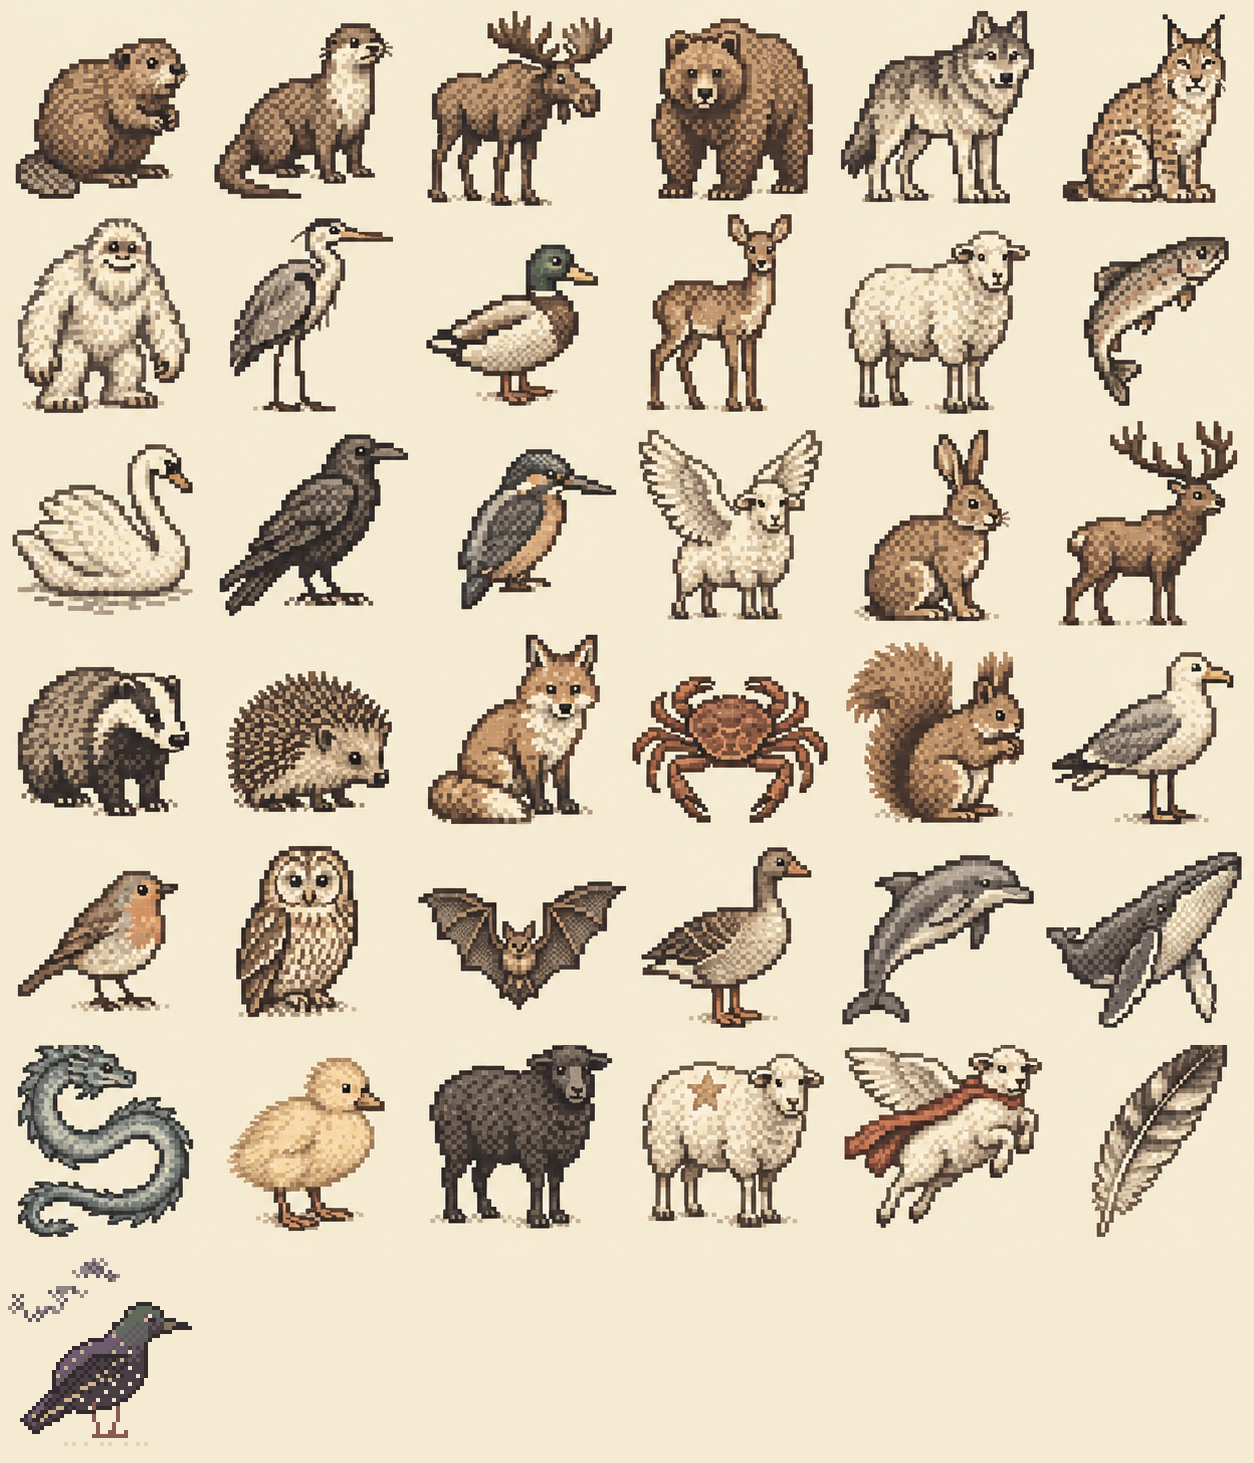
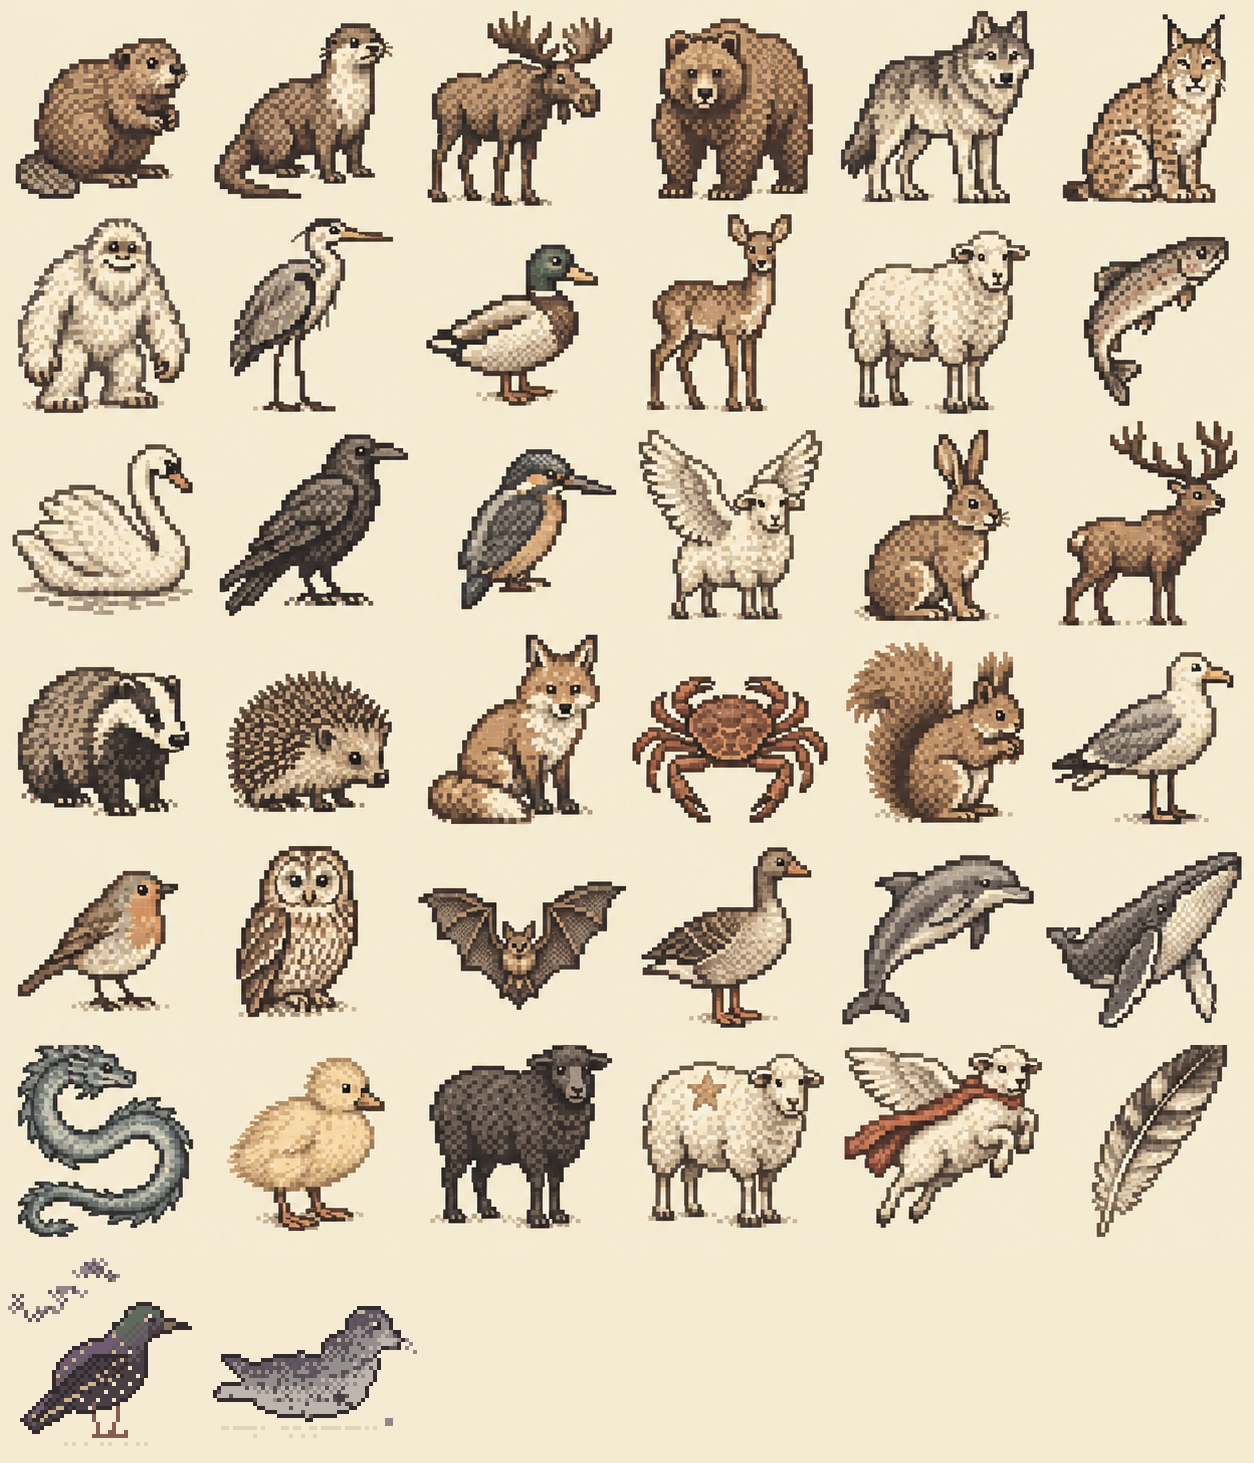
A seal in the sketchbook, a clear-day switch on the river, and notes for agents - The harbour seal gets a page in the wildlife sketchbook, drawn in code next to the starlings   (tools/drawings/row-seven.py draws every hand-made cell of the atlas's seventh row) - On the river, paddle under the real s

Changed region(s): [[0.1555, 0.892, 0.3421, 0.9843]]

diff --git a/src/island/river.ts b/src/island/river.ts
@@ -22,6 +22,8 @@ const FADE = 0.35; // seconds for the iris to close (and again to open)
 const SETTLE = 700;
 /** The river you picked last time. */
 const PICK = 'wingedsheep:river:pick';
+/** Whether you'd rather paddle on a clear day, whatever the hour and the weather outside. */
+const CALM = 'wingedsheep:river:calm';
 /** The rare ones you've seen, on any river. */
 const SPOTTED = 'wingedsheep:river:spotted';
 
@@ -150,6 +152,16 @@ export class River implements RoomInput {
   private cardAt = 0; // when the card on screen came up (ms)
   private $: Record<string, HTMLElement> = {};
   private grade = new THREE.Vector3();
+  /** The island's light as the river gets it (see run). */
+  private lit = { sun: new THREE.DirectionalLight(), hemi: new THREE.HemisphereLight(), fog: new THREE.Color() };
+  /** A clear day on the river, whatever the hour and the weather outside (the start card's switch). */
+  calm = (() => {
+    try {
+      return localStorage.getItem(CALM) === '1';
+    } catch {
+      return false;
+    }
+  })();
 
   constructor(
     private ctx: IslandContext,
@@ -198,9 +210,26 @@ export class River implements RoomInput {
     document.addEventListener('visibilitychange', () => {
       if (document.hidden) this.pause(true);
     });
+    const calm = this.el.querySelector<HTMLElement>('[data-river-calm]');
+    calm?.addEventListener('click', () => {
+      this.calm = !this.calm;
+      try {
+        localStorage.setItem(CALM, this.calm ? '1' : '0');
+      } catch {}
+      this.showCalm();
+    });
     this.showBest();
     this.showPicks();
     this.showLog();
+    this.showCalm();
+  }
+
+  /** The switch on the start card: out there as it is, or a clear day. */
+  private showCalm() {
+    const b = this.el.querySelector<HTMLElement>('[data-river-calm]');
+    if (!b) return;
+    b.setAttribute('aria-checked', String(this.calm));
+    b.querySelector('span')!.textContent = this.calm ? 'Always a clear day' : 'The real sky and weather';
   }
 
   /** On the start card, the rare ones you've seen so far. */
@@ -388,7 +417,7 @@ export class River implements RoomInput {
     this.card(on ? 'paused' : null);
   }
 
-  update(dt: number, night: number) {
+  update(dt: number) {
     const step = this.reducedMotion ? 1 : dt / FADE;
     if (this.want !== this.inside) {
       this.fade = Math.min(1, this.fade + step);
@@ -400,7 +429,7 @@ export class River implements RoomInput {
     const game = this.game;
     if (!this.inside || !game) return;
     try {
-      this.run(game, dt, night);
+      this.run(game, dt);
     } catch (err) {
       // never take the island down with it: out of the river, and say so
       console.error(err);
@@ -413,24 +442,54 @@ export class River implements RoomInput {
     if (this.el.dataset.device !== game.controls.device) this.el.dataset.device = game.controls.device;
   }
 
-  private run(game: RiverGame, dt: number, night: number) {
-    const w = this.ctx.weather.now;
-    game.update(dt, {
-      sun: this.ctx.sky.sun,
-      hemi: this.ctx.sky.hemi,
-      fog: (this.island.fog as THREE.Fog).color,
-      night,
-      rain: Math.min(1, w.rain + w.hail),
-      snow: w.snow,
-      fair: w.storm < 0.3 && w.rain < 0.2,
-      storm: w.storm,
-      flash: w.flash,
-      haze: w.fog,
-    });
+  private run(game: RiverGame, dt: number) {
+    const sky = this.ctx.sky;
+    const u = this.pixels.uniforms;
+    if (this.calm) {
+      // a clear day, whatever it's doing outside: the island's grade swapped for a noon one, and
+      // its rain, wind and fog kept off the water
+      const noon = sky.noon;
+      (u.uGrade.value as THREE.Vector3).copy(noon.grade);
+      u.uShade.value.copy(noon.shade);
+      u.uLight.value.copy(noon.light);
+      const sound = this.ctx.sound;
+      sound.rain = sound.hail = sound.snow = sound.wind = sound.fog = 0;
+      game.update(dt, { sun: noon.sun, hemi: noon.hemi, fog: noon.fog, night: 0, rain: 0, snow: 0, fair: true, storm: 0, flash: 0, haze: 0 });
+    } else {
+      const w = this.ctx.weather.now;
+      // the island's evening comes on early (its lamps are its clock): out on the river, lift its
+      // light back up towards the day by as much as the real sky is still lighter, keeping the
+      // colour of the evening and the weather's cloud
+      const noon = sky.noon;
+      const lift = THREE.MathUtils.clamp(sky.lamps - sky.twilight, 0, 1);
+      const cloud = 1 - w.cloud * 0.65;
+      this.lit.sun.position.copy(sky.sun.position);
+      this.lit.sun.color.copy(sky.sun.color).lerp(noon.sun.color, lift * 0.3);
+      this.lit.sun.intensity = THREE.MathUtils.lerp(sky.sun.intensity, noon.sun.intensity * cloud, lift);
+      this.lit.hemi.color.copy(sky.hemi.color).lerp(noon.hemi.color, lift * 0.4);
+      this.lit.hemi.groundColor.copy(sky.hemi.groundColor).lerp(noon.hemi.groundColor, lift * 0.6);
+      this.lit.hemi.intensity = THREE.MathUtils.lerp(sky.hemi.intensity, noon.hemi.intensity, lift);
+      const fog = (this.island.fog as THREE.Fog).color;
+      this.lit.fog.copy(fog).lerp(noon.fog, lift * 0.35).multiplyScalar(1 + lift * 0.3);
+      u.uShade.value.lerp(noon.shade, lift);
+      u.uLight.value.lerp(noon.light, lift * 0.5);
+      game.update(dt, {
+        sun: this.lit.sun,
+        hemi: this.lit.hemi,
+        fog: this.lit.fog,
+        // the real dark, not the island's lamps: still light at sundown, properly dark an hour or so after
+        night: sky.twilight,
+        rain: Math.min(1, w.rain + w.hail),
+        snow: w.snow,
+        fair: w.storm < 0.3 && w.rain < 0.2,
+        storm: w.storm,
+        flash: w.flash,
+        haze: w.fog,
+      });
+    }
     // the river's own air over the island's grade: golden and soft on the Dawdle, grey and cold
     // and dark round the edges on the big ones
     const mood = game.river.look.mood;
-    const u = this.pixels.uniforms;
     (u.uGrade.value as THREE.Vector3).multiply(this.grade.fromArray(mood.grade));
     u.uVignette.value = Math.min(1, mood.vignette + game.drama * 0.45); // (closing in over a waterfall)
     const roar = game.roar;

diff --git a/src/data/career.ts b/src/data/career.ts
@@ -216,7 +216,7 @@ export const chapters: Chapter[] = [
         years: '2025 – now',
         role: 'Lead developer, Direct+',
         org: 'ENTRNCE · Arnhem',
-        text: 'Technical direction and architecture for Direct+, built with EPEX SPOT so smaller parties can trade directly on the wholesale power market: exchange access, BRP-as-a-service and prepaid clearing in one setup. A modular monolith in Kotlin, Spring Boot, PostgreSQL and React. I also help shape how our teams build with AI.',
+        text: 'Technical direction and architecture for Direct+, built together with EPEX SPOT so smaller parties can trade directly on the wholesale power market: exchange access, BRP-as-a-service and prepaid clearing in one setup. A modular monolith in Kotlin, Spring Boot, PostgreSQL and React. And, together with the teams, figuring out how we best build with AI.',
       },
     ],
     scene: true,
@@ -258,7 +258,7 @@ export const chapters: Chapter[] = [
       directplus: {
         label: 'Direct+ · straight to the power exchange',
         text: [
-          'Direct+, which I’m lead developer for, launched with EPEX SPOT in September 2026: one membership that lets a smaller party (a regional supplier, a solar park, a battery) trade on the Dutch day-ahead and intraday markets itself.',
+          'Direct+, which I work on as lead developer, launched with EPEX SPOT in September 2026: one membership that lets a smaller party (a regional supplier, a solar park, a battery) trade on the Dutch day-ahead and intraday markets itself.',
           'Normally that takes your own balance responsibility and a bank guarantee. With Direct+ the balance responsibility is taken care of and you trade from a prepaid e-wallet, so you can be up and running within two months.',
           'On the screen: the price for every hour. Around noon it drops below zero, the market’s way of asking anyone at all to please use some power. A battery that listens gets paid to charge.',
           'Under the hood: a modular monolith in Kotlin, Spring Boot, PostgreSQL and React, more and more of it built together with AI.',

diff --git a/src/island/scene/sky.ts b/src/island/scene/sky.ts
@@ -144,10 +144,34 @@ export class Sky {
   haze = 0;
   /** The sun's elevation in degrees. */
   alt = 0;
+  /**
+   * How dark it really is out in the open, 0..1, by the sun alone: still light at sunset, dim by
+   * the end of civil twilight (6° under), properly dark by nautical dusk (12° under). The lamps
+   * come on well before this, as lamps do.
+   */
+  get twilight() {
+    return 1 - THREE.MathUtils.smoothstep(this.alt, -12, 1);
+  }
   /** Whether the sun is climbing: morning rather than evening. */
   rising = true;
   readonly sun = new THREE.DirectionalLight();
   readonly hemi = new THREE.HemisphereLight();
+  /**
+   * A clear day in the season, whatever the hour or the weather: the light the river goes by when
+   * you'd rather not paddle in the dark. High in the south-west, and never moving.
+   */
+  readonly noon = (() => {
+    const sun = new THREE.DirectionalLight(new THREE.Color(DAY.sun).lerp(seasonLight.sun, seasonLight.k), DAY.sunI);
+    sun.position.set(-30, 64, 55);
+    return {
+      sun,
+      hemi: new THREE.HemisphereLight(DAY.sky, DAY.ground, DAY.hemiI),
+      fog: new THREE.Color(DAY.fog),
+      grade: new THREE.Vector3(...DAY.grade).multiply(seasonLight.grade),
+      shade: new THREE.Color(DAY.shade),
+      light: new THREE.Color(DAY.light),
+    };
+  })();
   private where = visitorLocation();
   /** To preview another time of day: ?time=22:30 (the visitor's local time, today). */
   private shift = (() => {

diff --git a/src/styles/global.css b/src/styles/global.css
@@ -583,6 +583,13 @@ button { font: inherit; color: inherit; cursor: pointer; }
   outline: none; box-shadow: inset 0 0 0 3px var(--ink), inset 0 -6px 0 var(--ink);
 }
 .river[data-device='pad'] .river-card .river-leave:focus { outline: 3px solid var(--gold); outline-offset: 2px; color: var(--ink); }
+.river-calm {
+  display: block; margin: 10px auto; padding: 4px 10px 6px; border: 0; font: 14px var(--ui); color: var(--ink-soft);
+  background: var(--paper-2); box-shadow: inset 0 -3px 0 var(--paper-edge); clip-path: var(--notch); cursor: pointer;
+}
+.river-calm span { color: var(--ink); font-weight: 700; }
+.river-calm:hover { background: var(--paper); }
+.river-calm:focus-visible, .river[data-device='pad'] .river-calm:focus { outline: none; box-shadow: inset 0 0 0 2px var(--ink), inset 0 -4px 0 var(--ink); }
 .river-best-line { margin: 10px 0 0; font: 14px var(--ui); color: var(--ink-soft); }
 .river-spotted { margin-top: 4px; }
 .river-buttons { display: flex; gap: 10px; justify-content: center; flex-wrap: wrap; }

diff --git a/src/island/main.ts b/src/island/main.ts
@@ -110,7 +110,9 @@ export async function bootIsland(host: HTMLElement) {
   const journal = new Journal(Object.keys(SECRETS).length);
   const reducedMotion = matchMedia('(prefers-reduced-motion: reduce)').matches;
   const weather = new Weather(scene, reducedMotion);
-  weather.onThunder = (distance) => sound.thunder(distance);
+  weather.onThunder = (distance) => {
+    if (!(river.inside && river.calm)) sound.thunder(distance); // (not on a clear day on the river)
+  };
   const ambience = new Ambience(scene, island, water.uniforms, reducedMotion);
   const mist = new Mist(scene, reducedMotion);
   const beacons = new Beacons(scene, island, reducedMotion);

diff --git a/src/island/river/kayak.ts b/src/island/river/kayak.ts
@@ -979,7 +979,7 @@ export class Kayak {
       const big = Math.max(0, Math.min(1, (this.dropHeight - 3.5) / 3));
       const tuck = this.assisted ? 1 : Math.max(0, Math.min(1, (this.pitchNow - 0.1) / (0.4 + big * 0.5)));
       const straight = Math.max(0, 1 - Math.max(0, Math.abs(this.lipSkew) - 0.05) / (0.5 - big * 0.3))
-        * Math.max(0, 1 - Math.abs(this.tilt) / TIP);
+        * Math.max(0, 1 - Math.max(0, Math.abs(this.tilt) - 0.1) / (TIP - 0.1)); // (a wobble in the white water at the lip is forgiven)
       const miss = 1 - tuck * straight;
       this.pitch = 0.3 - miss * 0.4;
       this.vel.multiplyScalar(0.9 - miss * 0.4);

diff --git a/src/island/sketchbook.ts b/src/island/sketchbook.ts
@@ -36,6 +36,7 @@ const SPECIMENS = [
   ['starsheep', 'Star-marked sheep', 'A pale star in the wool. Worth a second look.'],
   ['supersheep', 'Super Sheep', 'A red cape and a rather hurried sketch.'],
   ['starlings', 'Starlings', 'One of thousands. Behind it, the rest, turning over the trees as one.'],
+  ['seal', 'Harbour seal', 'Hauled out on the warm sand, and in no hurry to be anywhere else.'],
 ] as const;
 /** The atlas is six sketches wide and seven deep; its thirty-sixth sketch is the feather, not an animal. */
 const FEATHER = 35;

diff --git a/tools/drawings/row-seven.py b/tools/drawings/row-seven.py
@@ -1,9 +1,11 @@
 """
-Draw the starling page of the wildlife sketchbook in the atlas's pixel-pencil style (the rest of
-the atlas was generated, see wildlife-sketches.md) and add it to the sheet as a seventh row: a
-starling in its autumn coat, glossy and spangled with white, and a murmuration turning behind it.
+Draw the wildlife sketchbook's later pages in the atlas's pixel-pencil style (the first six rows
+were generated, see wildlife-sketches.md) into its seventh row, left to right:
 
-    python3 tools/drawings/starling.py
+  starlings  one in its autumn coat, glossy and spangled with white, and a murmuration behind it
+  seal       a harbour seal hauled out on the sand, head up, taking a look round
+
+    python3 tools/drawings/row-seven.py
 """
 import math
 
@@ -28,6 +30,10 @@ BUFF = (204, 180, 140)
 BEAK = (132, 116, 92)
 LEG = (136, 92, 82)
 SMUDGE = (224, 212, 186)
+# the seal's greys
+FUR = (150, 142, 140)
+PALE = (190, 182, 172)
+SPOT = (88, 82, 86)
 BAYER = [[0, 8, 2, 10], [12, 4, 14, 6], [3, 11, 1, 9], [15, 7, 13, 5]]
 
 
@@ -50,7 +56,7 @@ def hashed(x, y, k=0):
     return (math.sin(x * 127.1 + y * 311.7 + k * 74.7) * 43758.5453) % 1
 
 
-def draw():
+def starling():
     img = np.zeros((N, N, 3), np.uint8)
     img[:] = PAPER
     body = np.zeros((N, N), bool)   # the bird's silhouette, less beak and legs
@@ -147,17 +153,79 @@ def draw():
     return img
 
 
+def seal():
+    img = np.zeros((N, N, 3), np.uint8)
+    img[:] = PAPER
+    body = np.zeros((N, N), bool)
+    # the hind flippers, splayed and lifted a little off the sand
+    upper = [(13, 28), (7, 25), (3, 25), (4, 28), (8, 31), (13, 32)]
+    lower = [(13, 32), (4, 32), (1, 35), (3, 37), (13, 37)]
+    for y in range(N):
+        for x in range(N):
+            X, Y = x + 0.5, y + 0.5
+            if (inside_ellipse(X, Y, 24, 33, 16, 8.5, 0.04) or inside_ellipse(X, Y, 35, 27, 7.5, 8, -0.6)
+                    or inside_ellipse(X, Y, 40, 19, 6.5, 6) or inside_ellipse(X, Y, 45.5, 21.5, 3.2, 2.6)
+                    or inside_poly(X, Y, upper) or inside_poly(X, Y, lower)):
+                body[y, x] = True
+    top = np.array([np.argmax(body[:, x]) if body[:, x].any() else N for x in range(N)])
+    bottom = np.array([N - 1 - np.argmax(body[::-1, x]) if body[:, x].any() else 0 for x in range(N)])
+    # a mottled grey coat, darker on the back, paler underneath; the spots are small and many
+    for y in range(N):
+        for x in range(N):
+            if not body[y, x]:
+                continue
+            depth = (y - top[x]) / max(bottom[x] - top[x], 1) + (BAYER[y % 4][x % 4] / 16 - 0.5) * 0.35
+            img[y, x] = MID if depth < 0.22 else FUR if depth < 0.62 else PALE
+            if hashed(x, y) < (0.2 if depth < 0.62 else 0.07) and x < 43:
+                img[y, x] = SPOT
+                if hashed(x, y, 5) < 0.4 and body[y, x + 1]:
+                    img[y, x + 1] = SPOT
+    for x, y in [(37, 14), (38, 14), (39, 13), (40, 13), (32, 21), (29, 24), (26, 25), (23, 25)]:
+        if body[y, x]:
+            img[y, x] = PALE  # the light along its head and back
+    # a front flipper, tucked against its side
+    for x, y in [(31, 35), (32, 36), (33, 36), (34, 37), (35, 37), (32, 35), (33, 35)]:
+        img[y, x] = DARK
+
+    solid = np.any(img != PAPER, axis=2)
+    pad = np.pad(solid, 1)
+    edge = solid & ~(pad[:-2, 1:-1] & pad[2:, 1:-1] & pad[1:-1, :-2] & pad[1:-1, 2:])
+    img[edge & body] = INK
+    # the face: a big dark eye, a nostril, a mouth, whiskers
+    for x, y in [(41, 17), (42, 17), (41, 18), (42, 18)]:
+        img[y, x] = INK
+    img[17, 41] = CREAM
+    img[20, 47] = INK
+    img[23, 45] = img[23, 46] = SPOT
+    for x, y in [(49, 21), (50, 22), (49, 23), (51, 24)]:
+        img[y, x] = LIGHT
+    # sand under it: a scuffed line, and a pebble
+    for x in range(3, 42):
+        if hashed(x, 43, 7) < 0.55:
+            img[43, x] = SMUDGE
+    for x in range(8, 36, 3):
+        if hashed(x, 45, 8) < 0.5:
+            img[45, x] = SMUDGE
+    for x, y in [(44, 42), (45, 42), (44, 41), (45, 41)]:
+        img[y, x] = LIGHT
+    return img
+
+
+CELLS = [starling, seal]  # the seventh row, from the left
+
+
 def main():
-    art = Image.fromarray(draw()).resize((N * PX, N * PX), Image.NEAREST)
     atlas = Image.open(ATLAS).convert("RGB")
     cols, rows = atlas.width // CELL, atlas.height // CELL
     if rows < 7:  # add the seventh row, in paper
         grown = Image.new("RGB", (atlas.width, CELL * 7), PAPER)
         grown.paste(atlas, (0, 0))
         atlas = grown
-    cell = Image.new("RGB", (CELL, CELL), PAPER)
-    cell.paste(art, ((CELL - art.width) // 2, (CELL - art.height) // 2))
-    atlas.paste(cell, (0, CELL * 6))  # tile 36: the first of the seventh row
+    for column, draw in enumerate(CELLS):
+        art = Image.fromarray(draw()).resize((N * PX, N * PX), Image.NEAREST)
+        cell = Image.new("RGB", (CELL, CELL), PAPER)
+        cell.paste(art, ((CELL - art.width) // 2, (CELL - art.height) // 2))
+        atlas.paste(cell, (column * CELL, CELL * 6))
     atlas.save(ATLAS, optimize=True)
     print(f"{ATLAS}: {atlas.width}×{atlas.height}")
 

diff --git a/AGENTS.md b/AGENTS.md
@@ -1,0 +1,31 @@
+# AGENTS.md
+
+## Rules
+
+- **A new animal gets a page in the wildlife sketchbook.** Add an entry to `SPECIMENS` in
+  `src/island/sketchbook.ts` with an id that matches the one passed to `spotAnimal`, and draw it
+  into the atlas. New drawings go in row seven, drawn in code by `tools/drawings/row-seven.py`.
+- **Fit the moment.** Characters, text and visuals should follow the time of day, the season
+  and special days, and the weather, including the visitor's real forecast. If a line mentions
+  the sun, it shouldn't show in a downpour. Rare sightings keep to their conditions (`Outlook`
+  in `scene/sightings.ts`).
+- **Words:** the river game addresses the player as *you*, never Vincent. The companion is
+  never named on the site. One light joke per beat at most. Career text says "worked on" for
+  team work.
+
+## Good to know
+
+- `public/models/*.glb` are build output: change the Python in `tools/models` and run
+  `just models` (headless Blender; `just dev` runs it too). Never edit a GLB by hand.
+- Blender's (east, north) is the scene's (x, −z): scripts write `V(x, 0, -y)`.
+- Clickable = an ancestor with `userData.id` (a Blender custom property `id`), which the Picker
+  resolves to its entry in `content.ts`.
+- Animals, sightings and the week's props are templates in the GLB, parked out of sight under a
+  root tagged `fauna=<name>` or `holiday=<occasion>`, and brought out by the runtime.
+- The pixel renderer draws small things only a few texels big, mostly outline. Check new
+  visuals in the browser, at normal zoom and zoomed in.
+- Preview a moment with query params: `?time=`, `?season=`, `?date=`, `?holiday=`,
+  `?weather=` (and `&k=`, `&wind=`, `&temp=`), `?animal=`, `?vincent=`, `?companion=`.
+- Visitor progress lives in `localStorage` under `wingedsheep:*` (the journal is
+  `wingedsheep:found`). When testing in the user's browser, put it back afterwards.
+- `just sounds` reads the ElevenLabs key from `config.yaml`, which stays out of git.

diff --git a/tools/drawings/wildlife-sketches.md b/tools/drawings/wildlife-sketches.md
@@ -1,7 +1,7 @@
 # Wildlife sketchbook illustrations
 
 Generated with the built-in imagegen tool. Original reference: `public/art/wildlife-sketches.png`. Final game asset: `public/art/wildlife-sketches-pixel.png`.
-The atlas is used by `src/island/sketchbook.ts`: 6 × 6 generated cells (the final feather is reserved), plus a seventh row drawn in code by `tools/drawings/starling.py` (starlings, first cell).
+The atlas is used by `src/island/sketchbook.ts`: 6 × 6 generated cells (the final feather is reserved), plus a seventh row drawn in code by `tools/drawings/row-seven.py` (starlings, seal).
 After any change, run `python3 tools/drawings/untangle-atlas.py public/art/wildlife-sketches-pixel.png` so no animal pokes into a neighbour's page (the serpent's spines once showed up under the robin).
 
 ## Prompt
